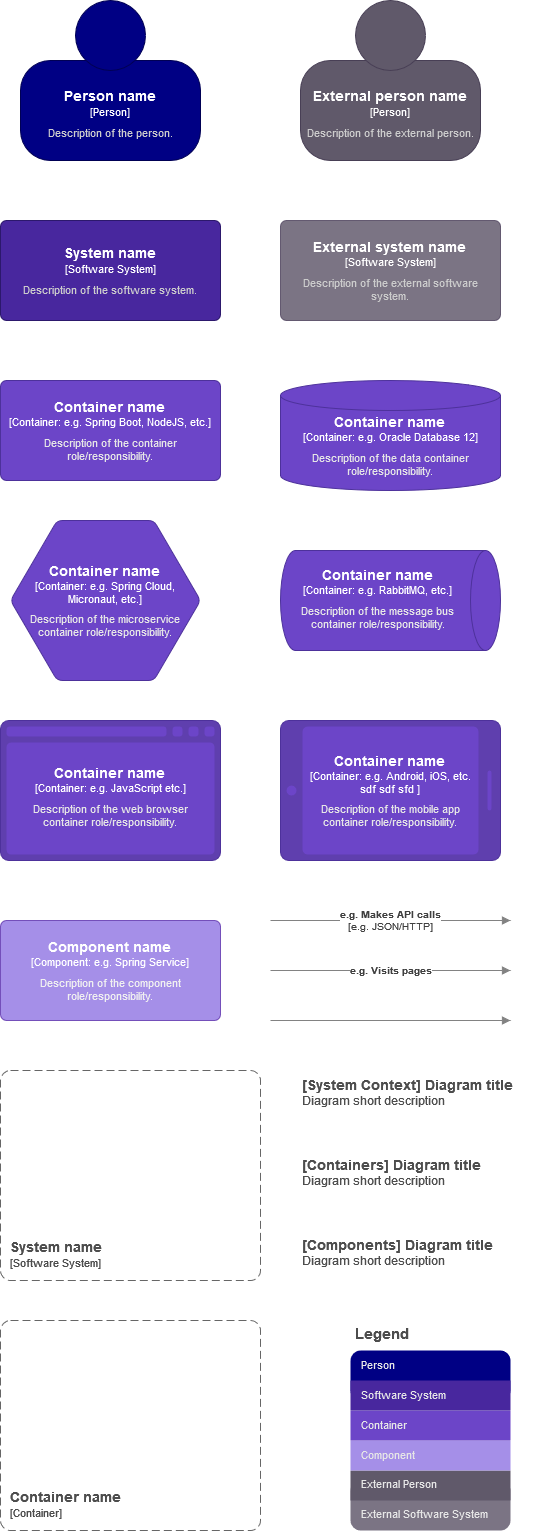
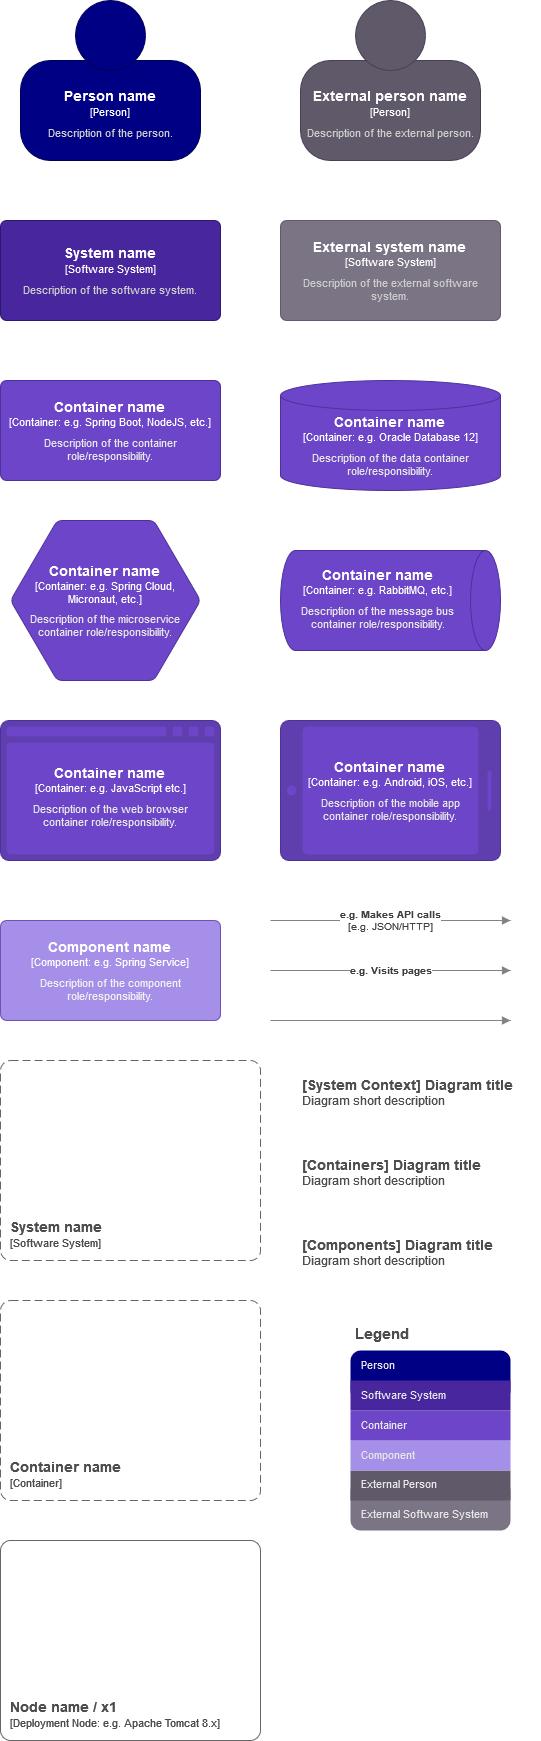
Updated version of Hycom C4
Added deployment node boundary

diff --git a/README.md b/README.md
@@ -8,6 +8,7 @@ The **Hycom C4** library contains the following easy to use elements:
 - Relationship (with description and technology, with generic description and plain)
 - Scope boundary (software system and container)
 - Diagram title (for system context, containers and components diagrams)
+- Deployment node boundary
 - Legend
 
 ![hycom-c4](/Hycom-C4.png)
